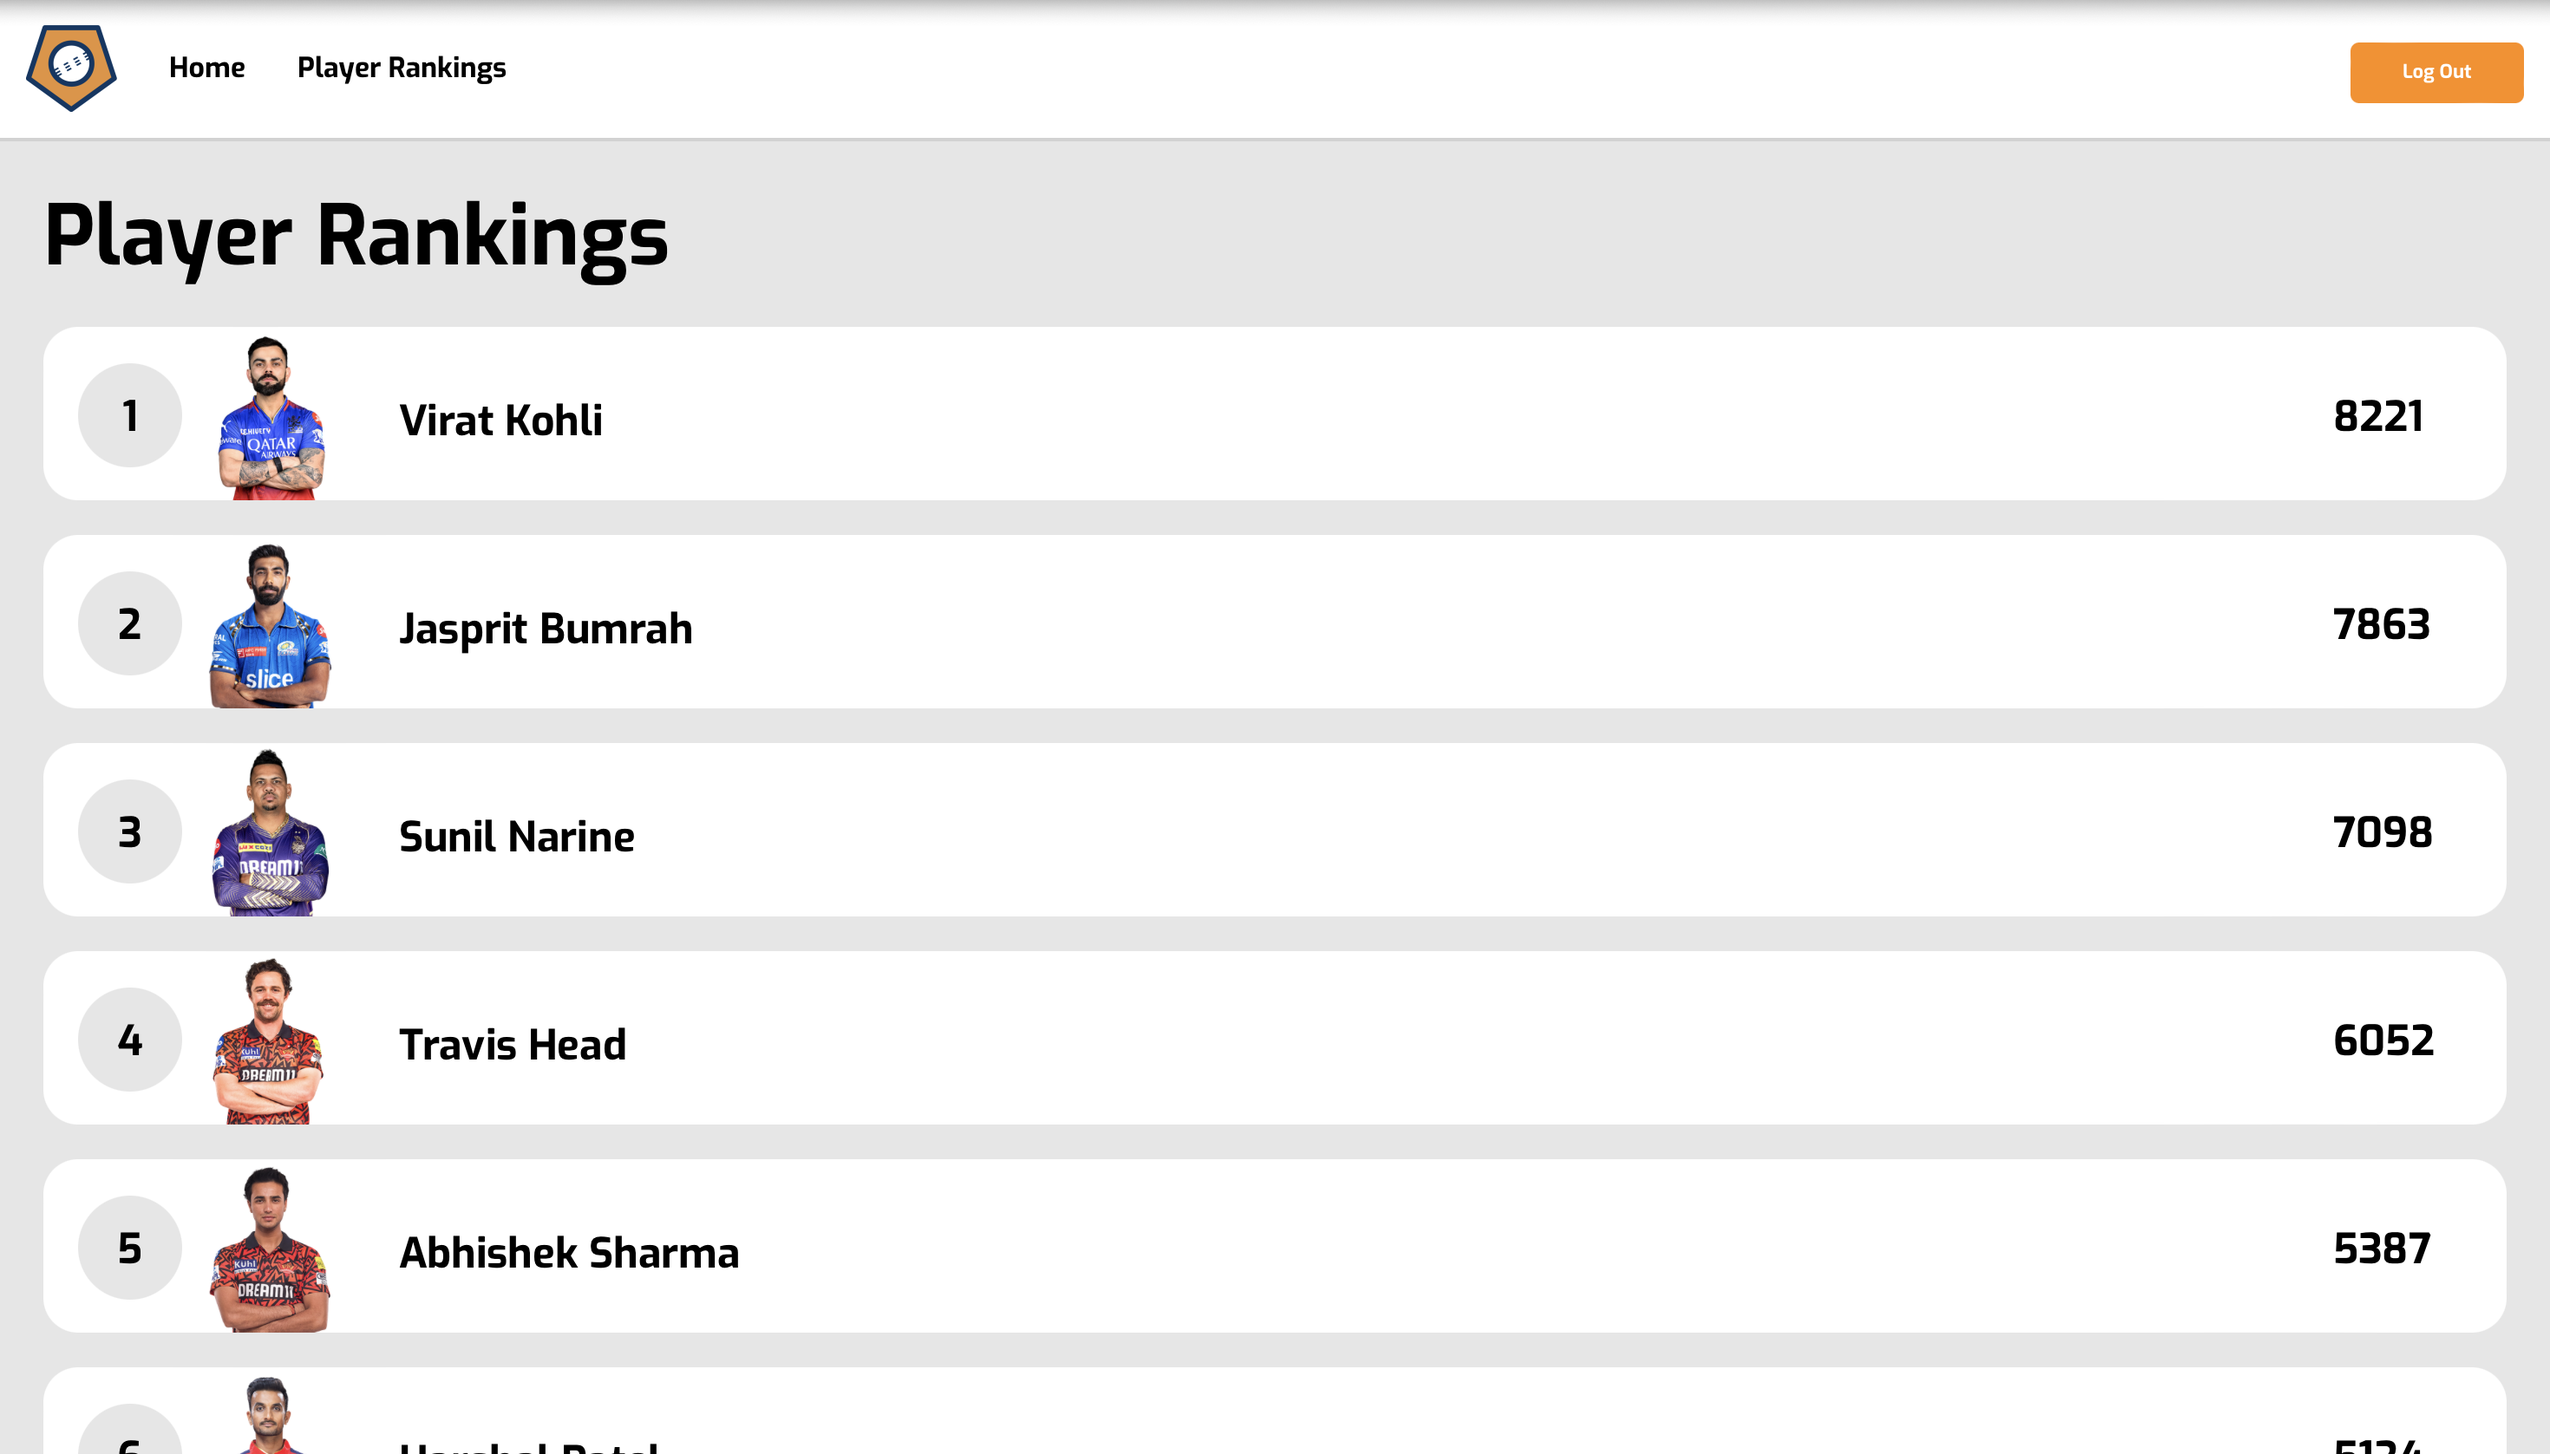
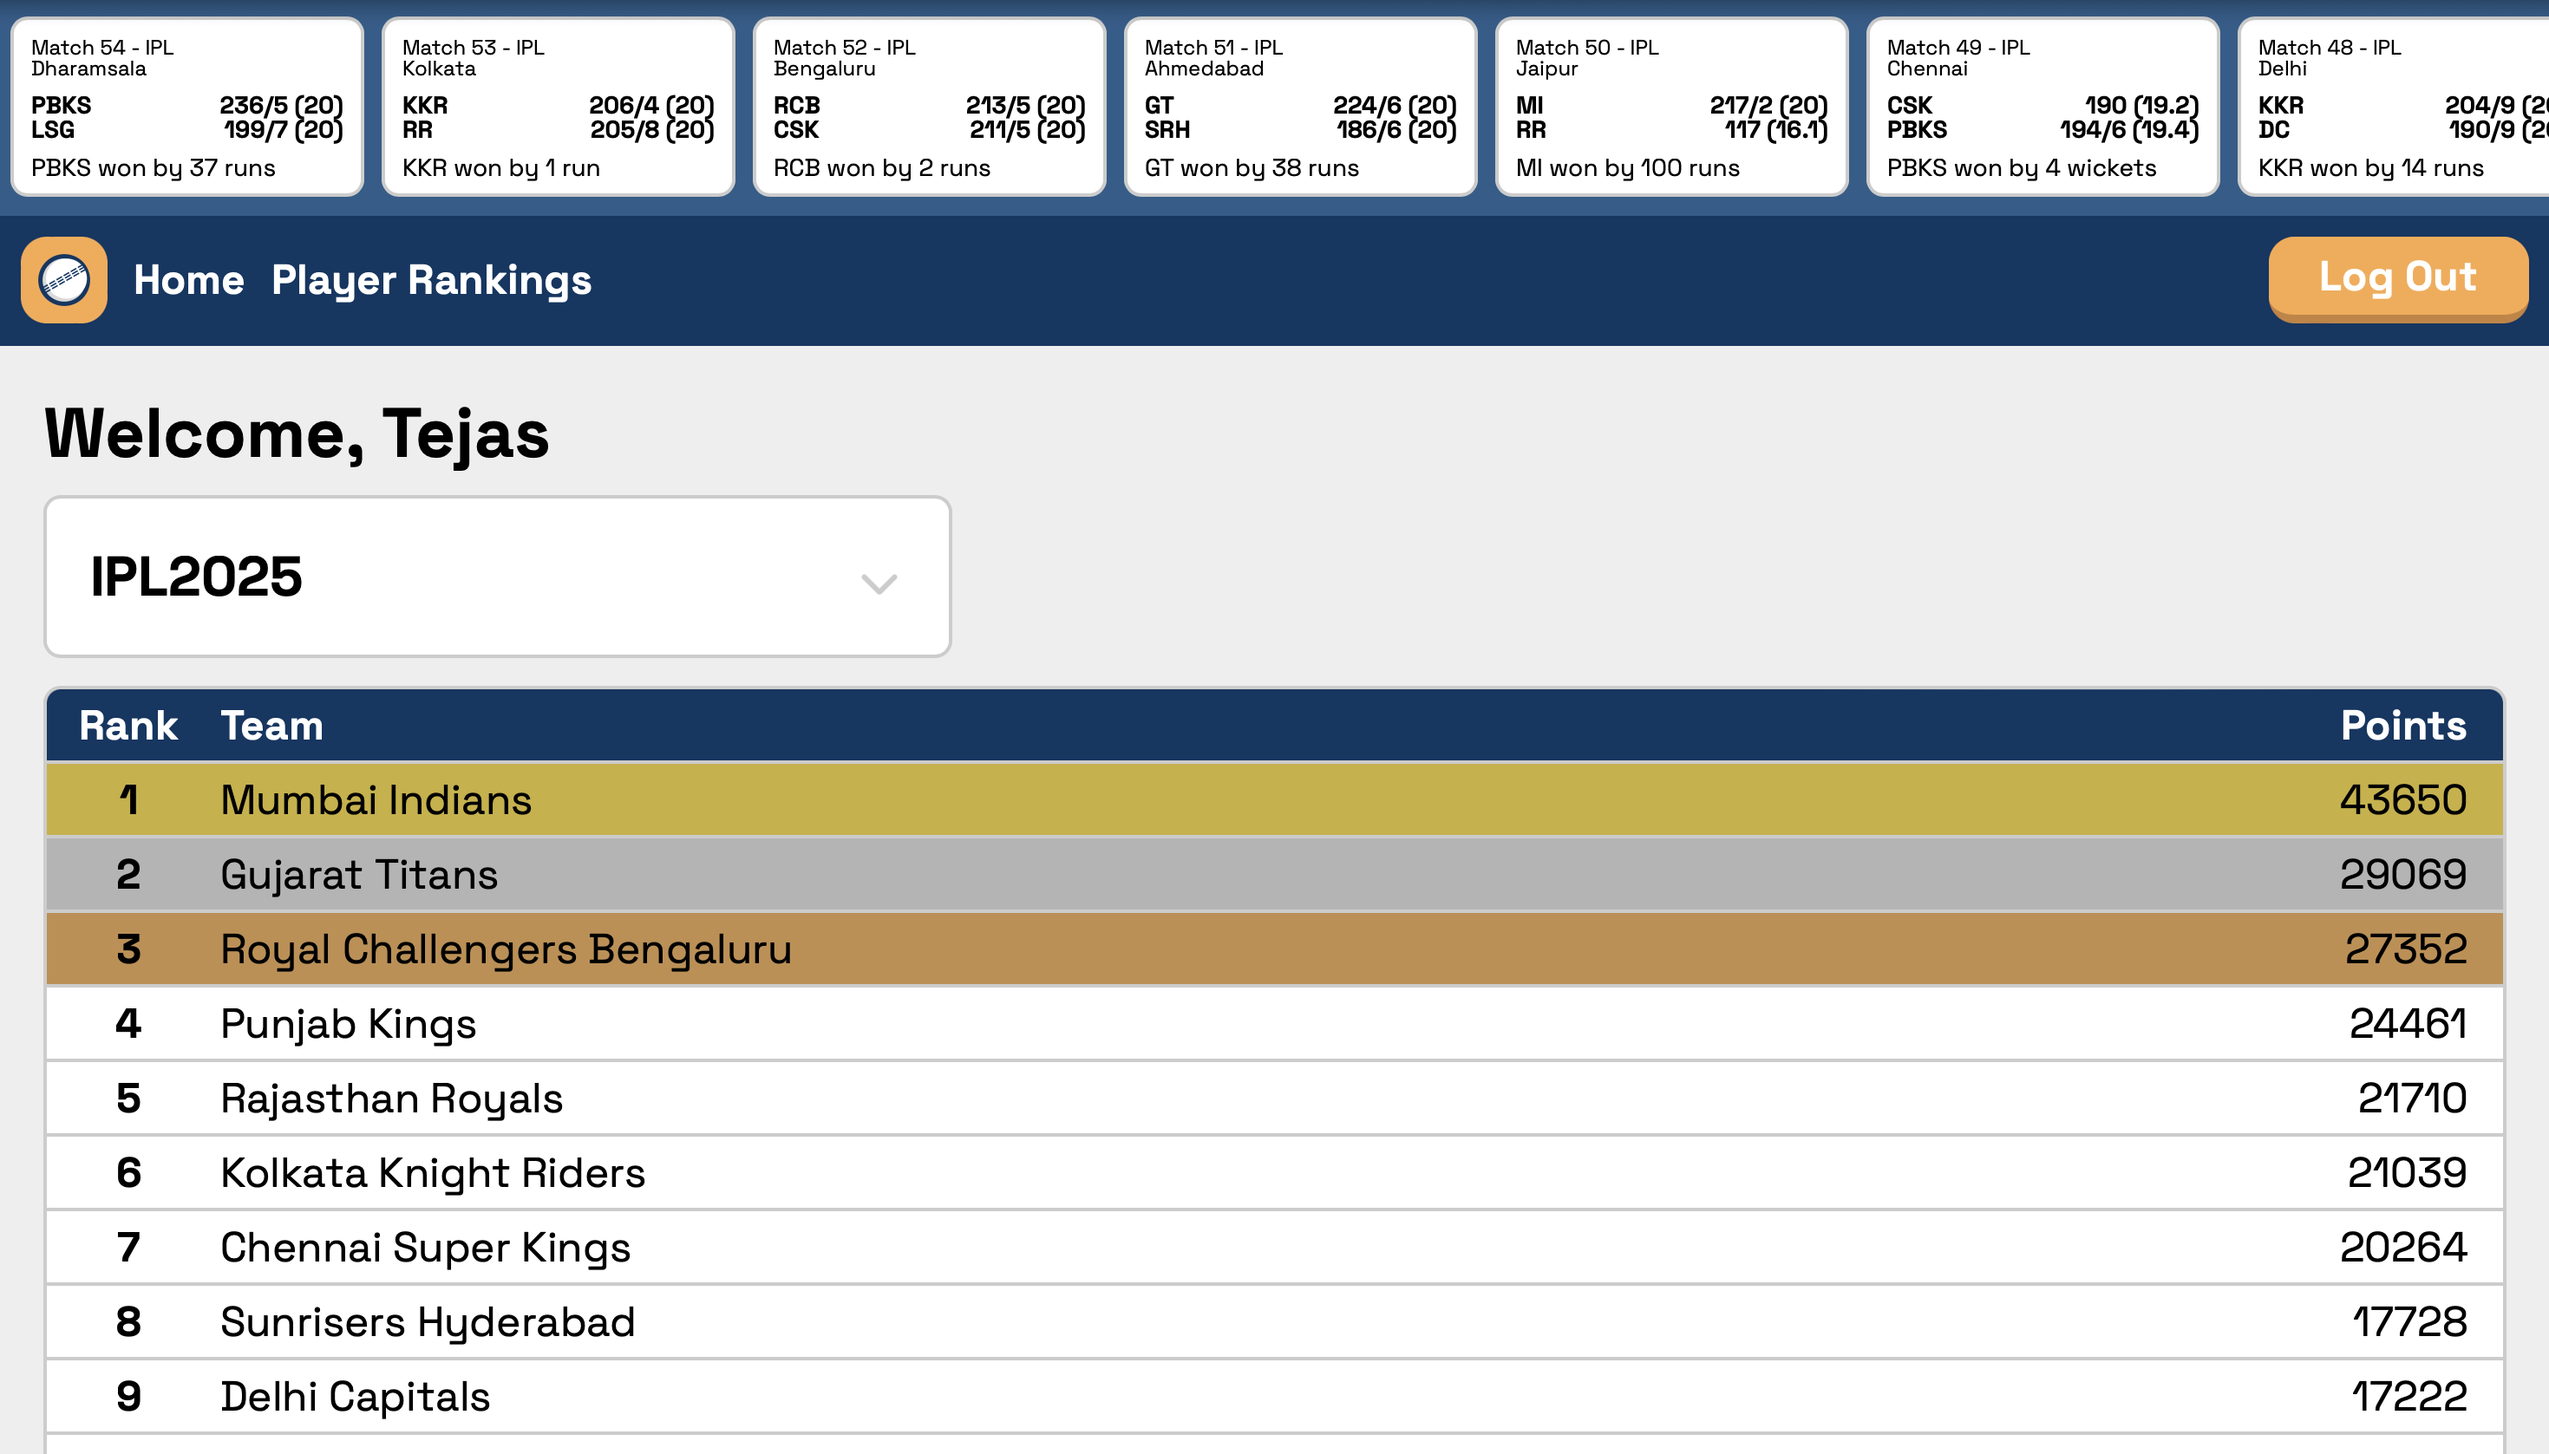
Added Shark Lab Project

diff --git a/src/components/Body.js b/src/components/Body.js
@@ -1,6 +1,7 @@
 import Project from "./Project";
 import Skill from "./Skill";
 import StuVis from "./../images/StuVis.png";
+import Shark from "./../images/Shark.png";
 import IPL from "./../images/IPL.png";
 import TeChess from "./../images/TeChess.png";
 import SBCREW from "./../images/SBCREW.png";
@@ -12,9 +13,10 @@ function Body()
     return (
         <div id="body">
             <h2>About</h2>
-            <p>Hi! I’m an undergraduate student at the University of Illinois at Urbana-Champaign with a deep fascination for computer science, especially software development. My interests span across various subfields, including competitive programming, quantum computing, and website design. As a full stack developer, I’ve gained experience in a wide range of languages and frameworks, allowing me to build and contribute to diverse projects. Outside of the world of programming, I enjoy cubing, playing cricket and football, and immersing myself in video games.</p>
+            <p>Hi! I’m an undergraduate student at the University of Illinois at Urbana-Champaign with a deep fascination for computer science, especially software development. My interests span across various subfields, including data visualization, quantum computing, and website design. As a full stack developer, I’ve gained experience in a wide range of languages and frameworks, allowing me to build and contribute to diverse projects. Outside of the world of programming, I enjoy cubing, playing cricket and football, and immersing myself in video games. Check out my <a href='https://docs.google.com/document/d/1SFYqt0y2Yt1PEyDjvFphotCZDIZlNwqEeRg-1B1vBlA/edit?usp=sharing'>design portfolio</a>!</p>
             <h2>Projects</h2>
             <Project name="StuVis" image={StuVis} description="Student Data Visualization Web Application with AI Integration for the South Brunswick School District" link="https://github.com/TejasRaghuram/StuVis"/>
+            <Project name="Shark Visualizer" image={Shark} description="3D Shark Visualization with Real Time Data for CSULB Shark Lab" link="https://csulb-shark-visualizer.netlify.app"/>
             <Project name="IPL Fantasy" image={IPL} description="Web Application for Fantasy Cricket with the Indian Premier League" link="https://github.com/TejasRaghuram/IPL-Fantasy"/>
             <Project name="TeChess" image={TeChess} description="A Chess Bot Implementation of Monte Carlo Tree Search" link="https://github.com/TejasRaghuram/TeChess"/>
             <Project name="750 SBCREW" image={SBCREW} description="Landing Page Template for South Brunswick Robotics" link="https://github.com/TejasRaghuram/750SBCREW"/>
